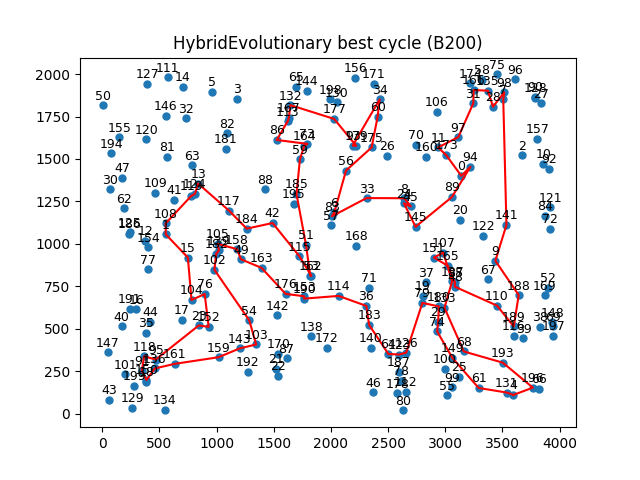
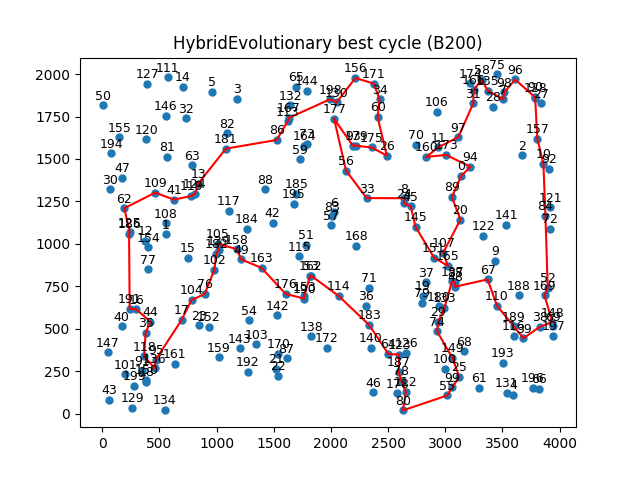
Fix segfault

diff --git a/aem/heuristics/lab5/hybrid_evolutionary.py b/aem/heuristics/lab5/hybrid_evolutionary.py
@@ -18,7 +18,6 @@ class HybridEvolutionary(SteepestEdgeSwapListOfMoves, Greedy):
         population = np.array(start_population)
         self.reset()
         start_time = time.time()
-        best_cycle = None
         generations = 0
         while time.time()-start_time < time_limit:
             generations += 1
@@ -30,6 +29,7 @@ class HybridEvolutionary(SteepestEdgeSwapListOfMoves, Greedy):
             y = self.recombine(parent_a, parent_b)
             # local search
             improved = True
+            self.reset()
             while improved:
                 y, improved = self.alter_cycle(y)
             # jeżeli y jest lepsze od najgorszego i rozne od wszystkich w pop

diff --git a/main_lab5.py b/main_lab5.py
@@ -17,7 +17,7 @@ for instance in instances:
 
     methods = [HybridEvolutionary(graph)]
     for method in methods:
-        result = method.run(seed=13, time_limit=1, population_size=20, number_of_experiments=1)
+        result = method.run(seed=13, time_limit=35, population_size=20, number_of_experiments=1)
         results[result.method_classname] = [result.average, result.min, result.max, result.time_average,
                                             result.time_min, result.time_max]
         result.print()
